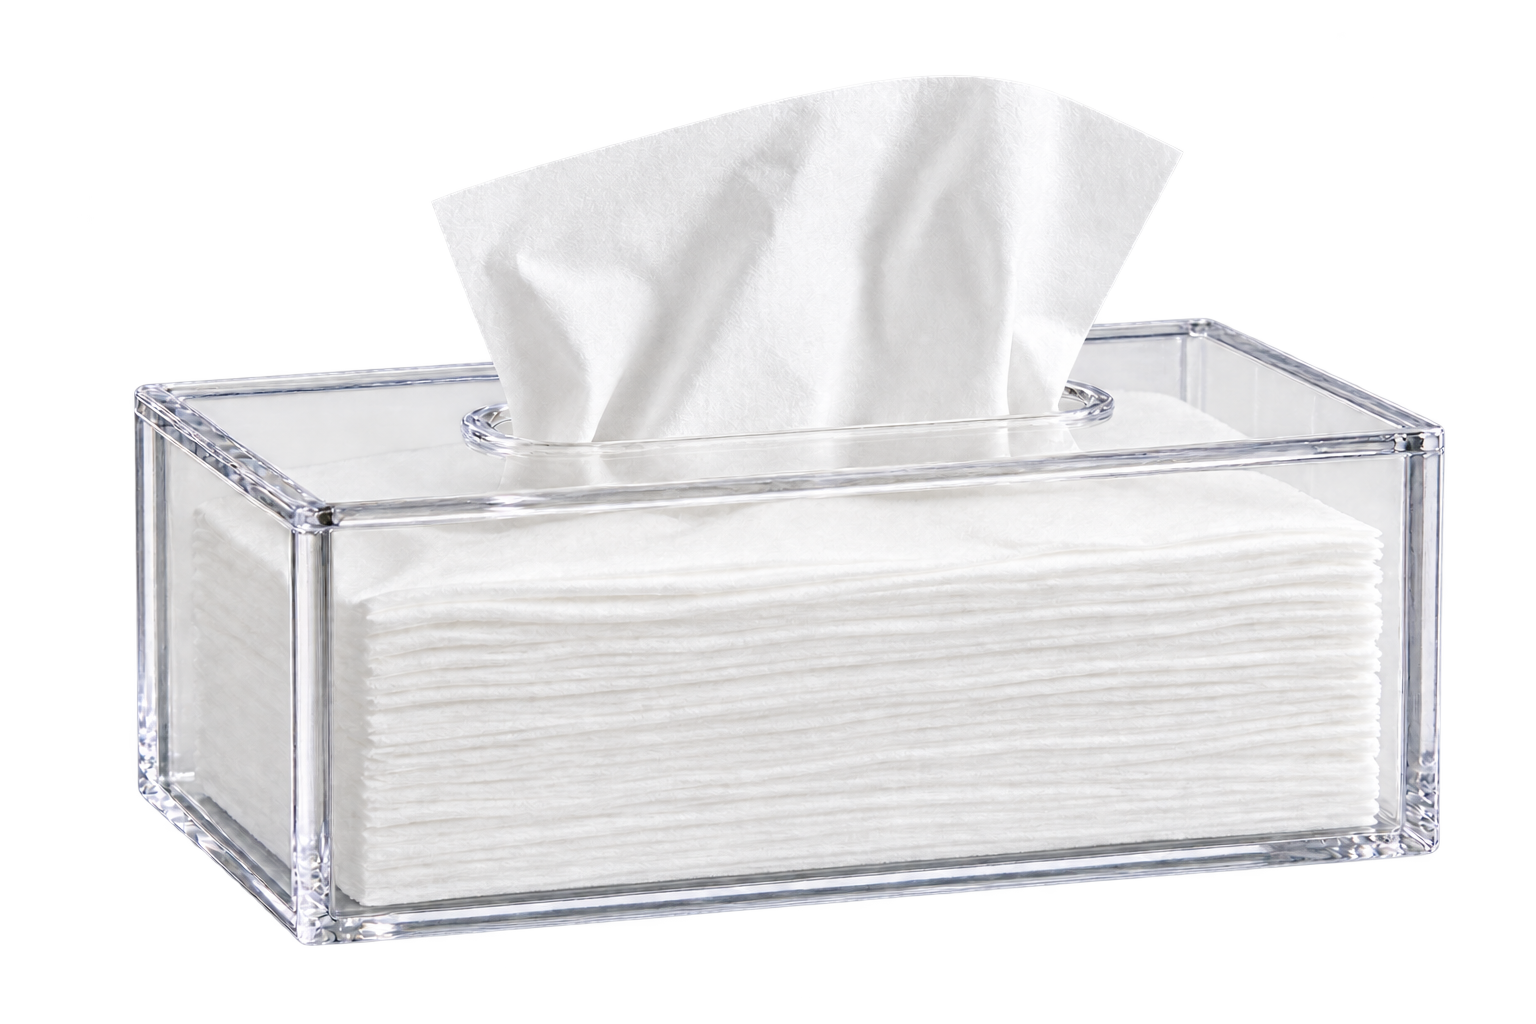
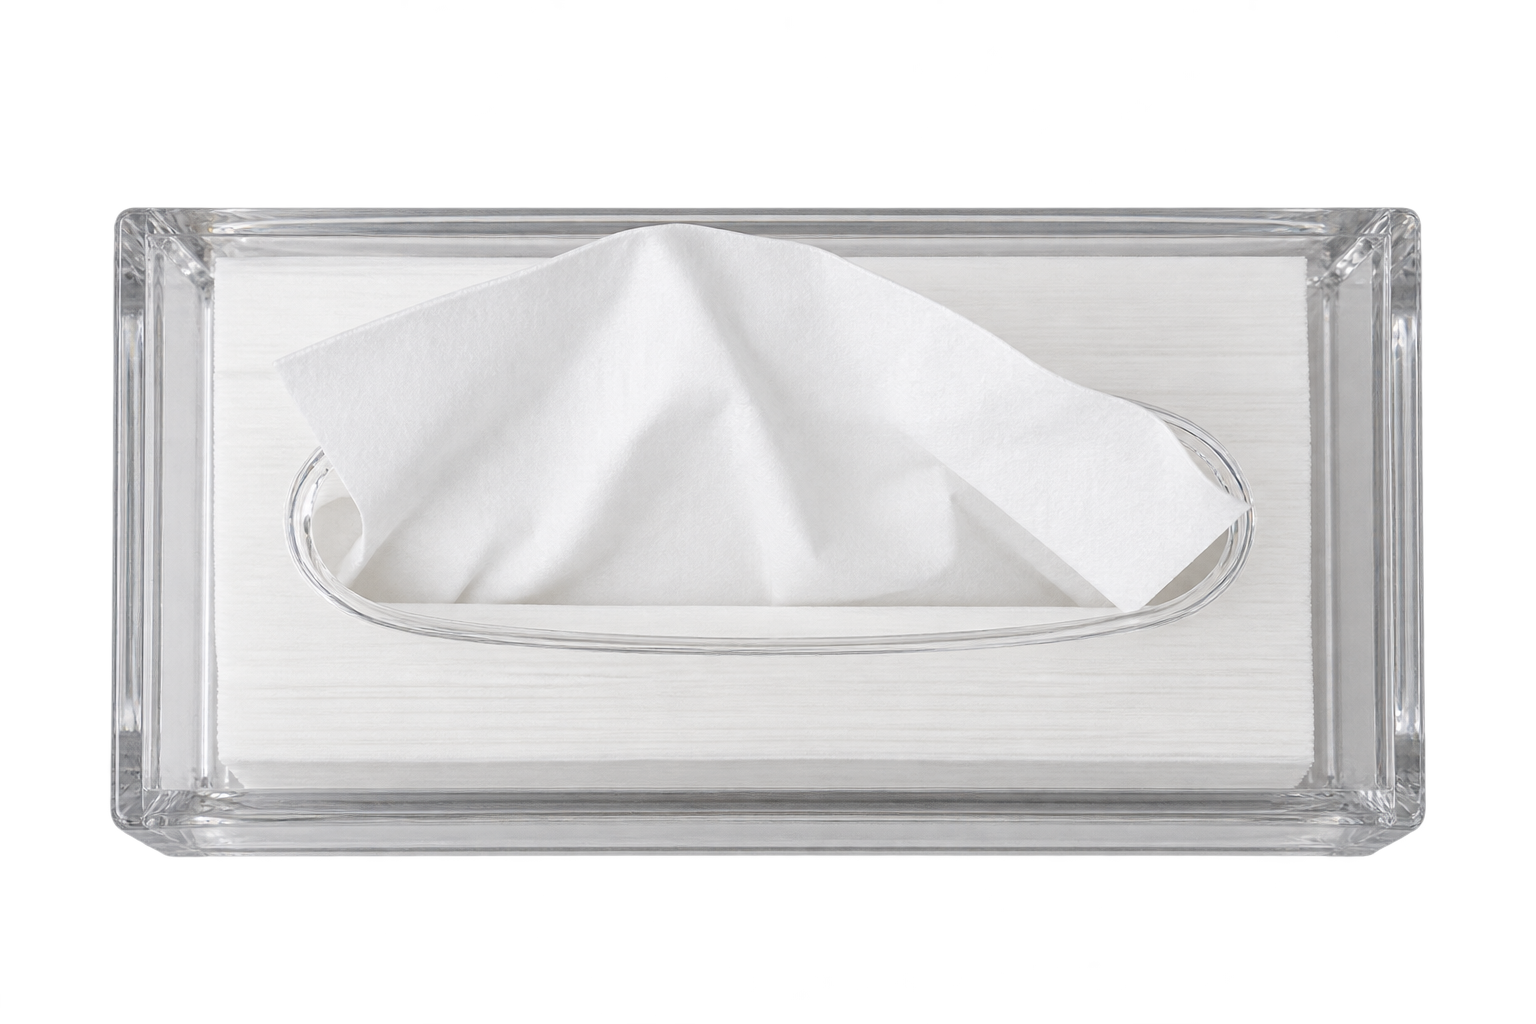
Updateuntil928

diff --git a/index.html b/index.html
@@ -7,7 +7,7 @@
   <link rel="stylesheet" href="style.css">
 </head>
 <body>
-  <main class="page">
+  <main class="page scene">
     <h1>It always looks like there's more at the bottom.</h1>
 
     <div class="objects">
@@ -57,29 +57,12 @@
     ];
     let state = 0;
     let tissueState = 0;
-    let backgroundBrightness = 100;
-    let backgroundDirection = -1;
-
-    function changeBackgroundBrightness() {
-      backgroundBrightness += backgroundDirection * 10;
-
-      if (backgroundBrightness <= 0) {
-        backgroundBrightness = 0;
-        backgroundDirection = 1;
-      } else if (backgroundBrightness >= 100) {
-        backgroundBrightness = 100;
-        backgroundDirection = -1;
-      }
-
-      document.body.style.backgroundColor = `rgb(${backgroundBrightness}%, ${backgroundBrightness}%, ${backgroundBrightness}%)`;
-    }
+    let tissueClicks = 0;
 
     button.addEventListener('click', () => {
       const randomAudio = audioFiles[Math.floor(Math.random() * audioFiles.length)];
       const sound = new Audio(randomAudio);
       sound.play();
-
-      changeBackgroundBrightness();
 
       if (state >= totalStates - 1) {
         state = 0;
@@ -99,21 +82,32 @@
     });
 
     tissueButton.addEventListener('click', () => {
-      changeBackgroundBrightness();
+      if (tissueState === 0) {
+        tissueClicks += 1;
+        if (tissueClicks < 13) return;
+        tissueState = 1;
+        tissueImage.src = tissuePaths[tissueState];
+        tissueImage.alt = 'Tissue box, one tissue remaining';
+        tissueButton.setAttribute('aria-label', 'Use the last tissue');
+        return;
+      }
+
+      if (tissueState === 1) {
+        tissueState = 2;
+        tissueImage.src = tissuePaths[tissueState];
+        tissueImage.alt = 'Empty tissue box';
+        tissueButton.setAttribute('aria-label', 'Empty tissue box');
+        return;
+      }
 
       if (tissueState >= tissuePaths.length - 1) {
         tissueState = 0;
+        tissueClicks = 0;
         tissueImage.src = tissuePaths[0];
         tissueImage.alt = 'Tissue box, 100% remaining';
         tissueButton.setAttribute('aria-label', 'Use tissue — 100% remaining');
         return;
       }
-
-      tissueState += 1;
-      const remaining = Math.round(100 - tissueState * (100 / (tissuePaths.length - 1)));
-      tissueImage.src = tissuePaths[tissueState];
-      tissueImage.alt = `Tissue box, ${remaining}% remaining`;
-      tissueButton.setAttribute('aria-label', tissueState === tissuePaths.length - 1 ? 'Tissue box is empty' : `Use tissue — ${remaining}% remaining`);
     });
   </script>
 </body>

diff --git a/style.css b/style.css
@@ -13,43 +13,53 @@
 body {
   margin: 0;
   min-height: 100vh;
-  background: var(--paper);
+  background: #ffffff;
   color: var(--ink);
   font-family: Georgia, 'Times New Roman', serif;
 }
 
 .page {
-  width: min(92vw, 900px);
+  position: relative;
+  width: 100vw;
   min-height: 100vh;
-  margin: 0 auto;
-  padding: 8vh 0 6vh;
-  text-align: center;
+  overflow: hidden;
 }
 
-.objects {
-  display: flex;
-  flex-direction: column;
-  align-items: center;
-  gap: 3rem;
+.scene {
+  background-color: #ffffff;
+  background-image: url('assests/bathroom-background.png');
+  background-position: center center;
+  background-size: cover;
+  background-repeat: no-repeat;
 }
 
 h1 {
-  margin: 0 0 2.6rem;
+  position: absolute;
+  z-index: 3;
+  top: 60%;
+  left: 50%;
+  width: min(34vw, 500px);
+  margin: 0;
+  transform: translateX(-50%);
   font-size: clamp(1.4rem, 3vw, 2.5rem);
   font-weight: normal;
   color: #ffffff;
   font-family: "Bradley Hand", "Segoe Print", "Comic Sans MS", cursive;
+  text-align: center;
+  text-shadow: 0 1px 5px rgba(50, 55, 60, 0.45);
 }
 
-.toothpaste-display {
-  position: relative;
-  width: min(80vw, 720px);
-  margin: 0;
+.objects {
+  position: absolute;
+  inset: 0;
+  z-index: 2;
+  pointer-events: none;
 }
 
+.toothpaste-display,
 .tissue-display {
-  width: min(68vw, 620px);
-  margin: 0;
+  position: absolute;
+  pointer-events: auto;
 }
 
 .image-button {
@@ -80,13 +90,38 @@ h1 {
   border-radius: 2px;
 }
 
+.toothpaste-display {
+  left: 50%;
+  bottom: 2%;
+  width: min(52vw, 780px);
+  transform: translateX(-50%);
+}
+
 .tissue-button {
   width: 85%;
 }
 
+.tissue-display {
+  top: 5%;
+  right: 5%;
+  width: min(23vw, 330px);
+}
+
 @media (max-width: 600px) {
-  .page {
-    padding-top: 5vh;
+  h1 {
+    top: 58%;
+    width: 55vw;
+    font-size: 1.25rem;
   }
 
+  .toothpaste-display {
+    bottom: 3%;
+    width: 76vw;
+  }
+
+  .tissue-display {
+    top: 6%;
+    right: 3%;
+    width: 30vw;
+  }
 }
